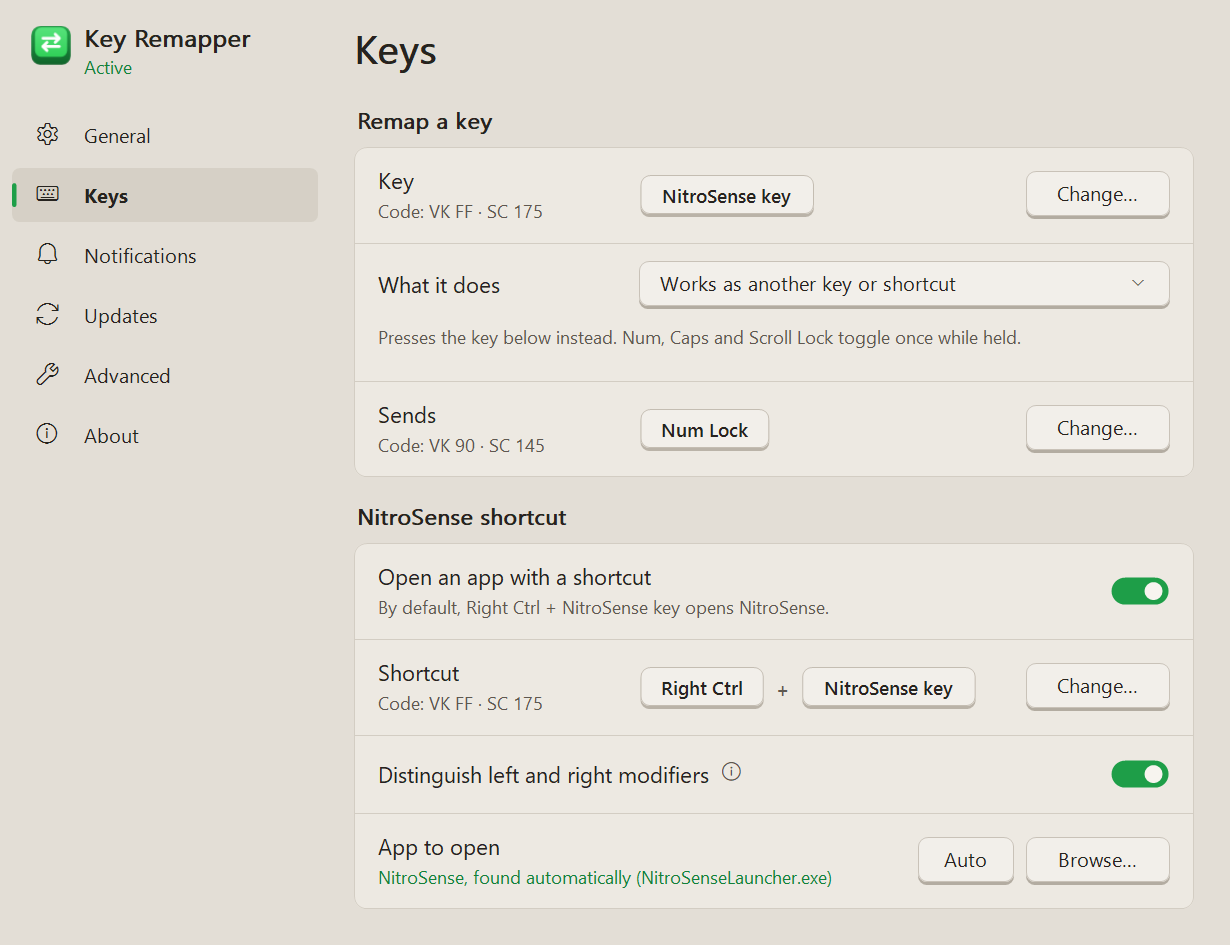
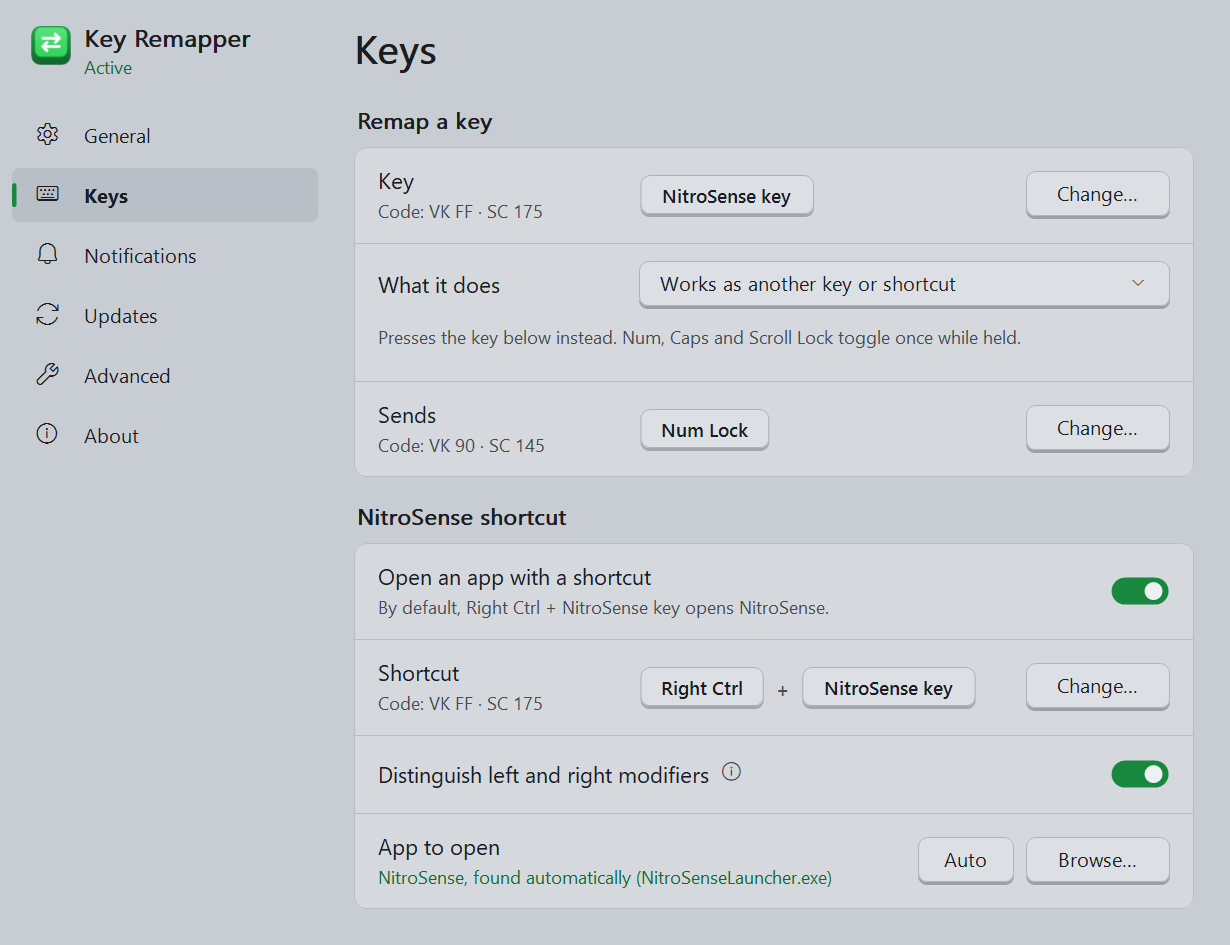
Light theme: mid grey with a hint of blue

diff --git a/docs/DEVELOPMENT.md b/docs/DEVELOPMENT.md
@@ -231,8 +231,8 @@ Rules:
   undocumented but widely used uxtheme exports (ordinals 135
   `SetPreferredAppMode`, 136 `FlushMenuThemes`) for the tray menu, and
   `DwmSetWindowAttribute` 20 (dark title bar) / 35 (caption color, Windows 11).
-  Everything else uses the colors in `THEMES`. The light theme is a warm stone
-  grey (window `E3DED6`, cards `EDE9E2`), not white: easier on the eyes; the
+  Everything else uses the colors in `THEMES`. The light theme is a mid grey
+  with a hint of blue (window `C8CDD3`, cards `D5D9DE`), not white: easier on the eyes; the
   solid notification (`GT_THEMES.solidLight`) uses the same colors. When the
   theme changes, the window is rebuilt in place.
 - Widgets are clickable but not reachable with Tab; Esc works as usual.

diff --git a/CHANGELOG.md b/CHANGELOG.md
@@ -8,7 +8,7 @@ uses [Semantic Versioning](https://semver.org/).
 
 ### Changed
 
-- **Light theme easier on the eyes**: a warm stone grey instead of white, for
+- **Light theme easier on the eyes**: a mid grey with a hint of blue instead of white, for
   the settings window, its notices and the solid notifications.
 - **Drop-down lists of our own**, instead of Windows' white, square ones: they
   look like the app's buttons, with a chevron, and open a rounded list with a
